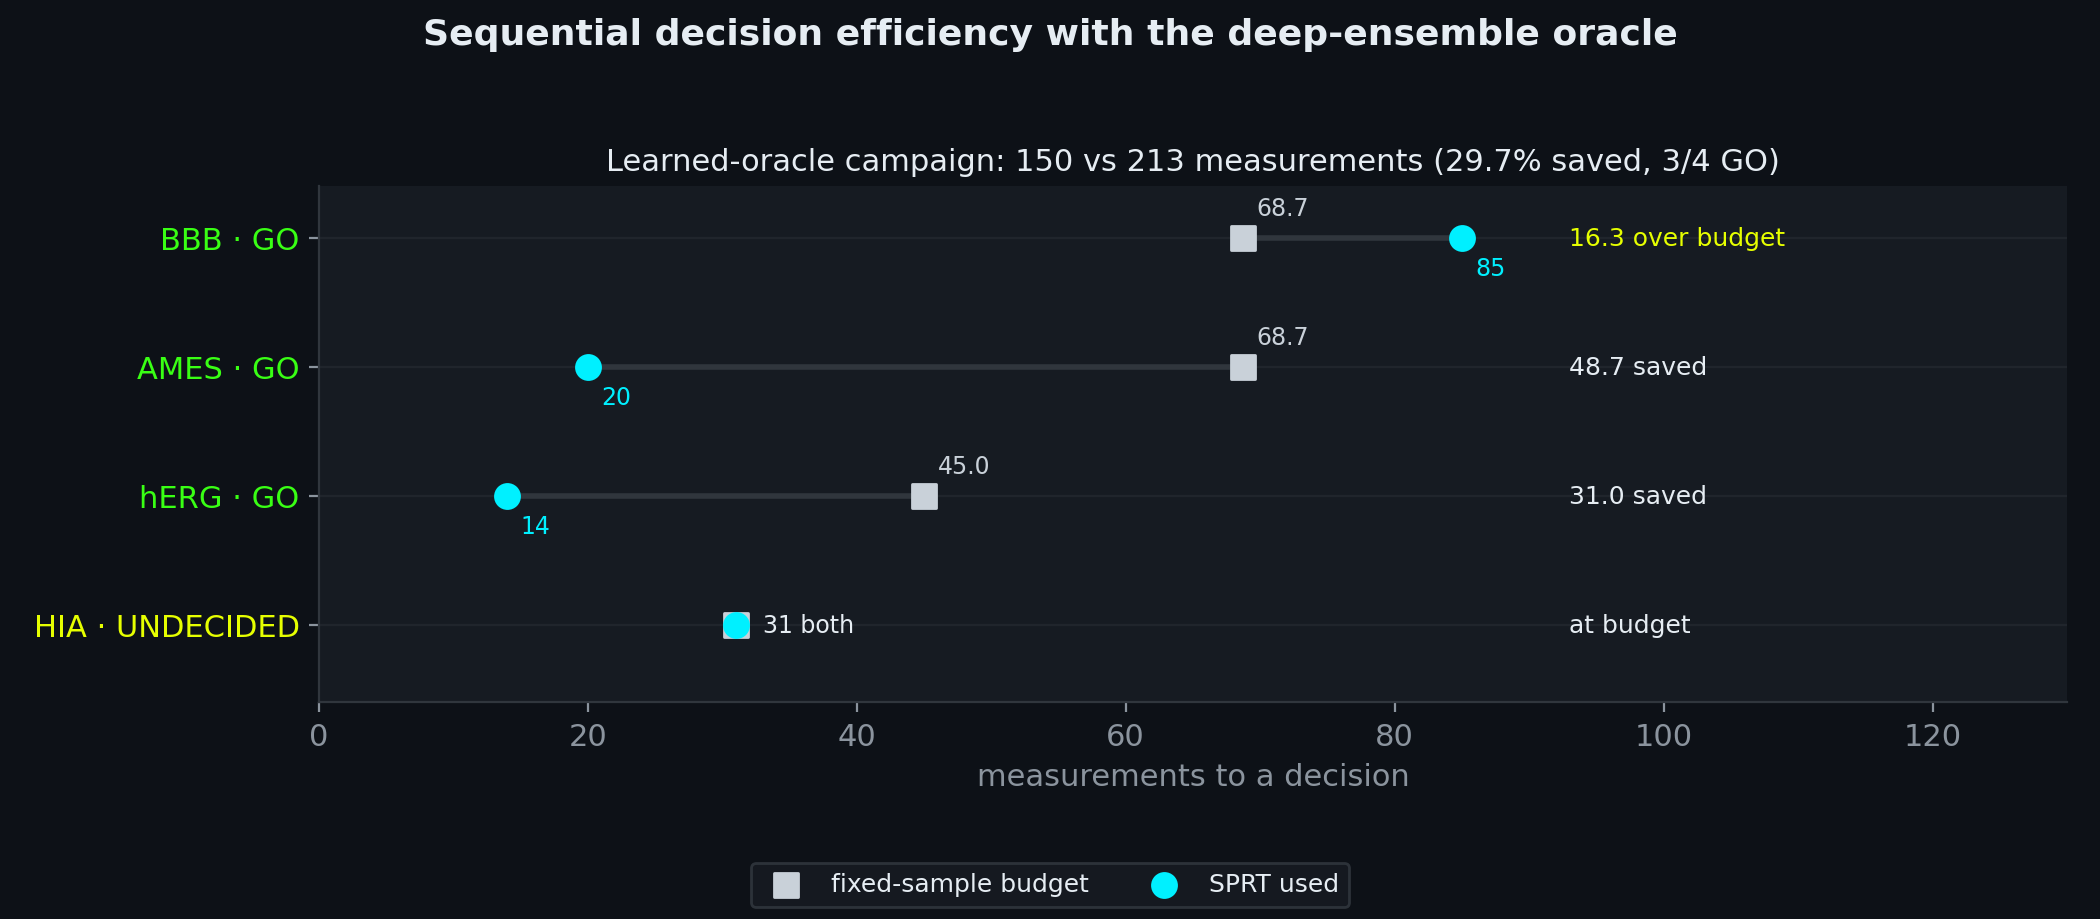
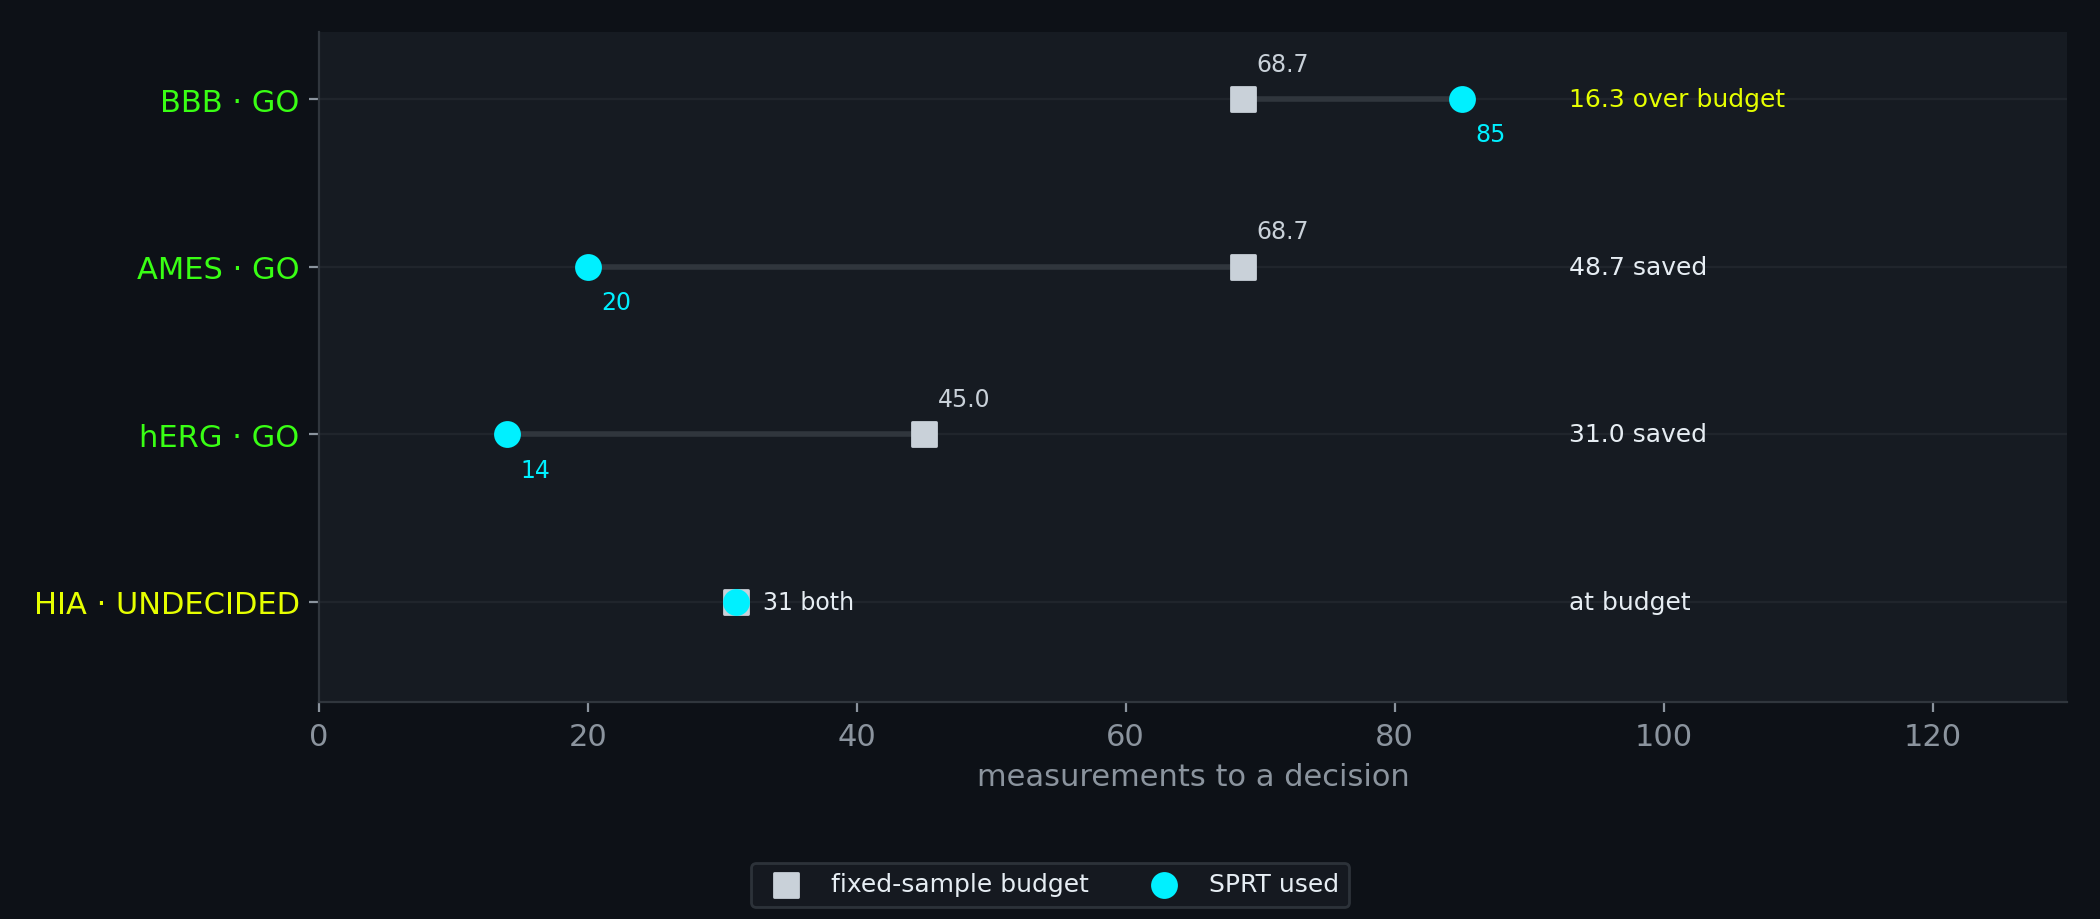
index: title-less Figure 6 with page-styled heading; recoherent molecular heading; align figure spacing

diff --git a/index.html b/index.html
@@ -1101,13 +1101,14 @@
         </div>
 
         <figure style="margin:18px 0 0;padding:18px;background:rgba(22,27,34,0.82);border:1px solid var(--border);border-radius:12px;">
-          <h4 style="margin:0 0 12px;font-size:16.5px;line-height:1.3;letter-spacing:-0.01em;color:var(--text-primary);">Look-alike molecules, very different behavior</h4>
+          <h4 style="margin:0 0 12px;font-size:16.5px;line-height:1.3;letter-spacing:-0.01em;color:var(--text-primary);">Small structural change, large property shift</h4>
           <img src="assets/molecules/cliff_pair_3d_comparison.png" loading="lazy" alt="Two drug-like molecules rendered in an identical 3D scaffold pose. They differ by a single highlighted functional group: a carboxylic acid on the left and a primary amide on the right." style="width:100%;height:auto;border-radius:8px;display:block;" />
           <figcaption style="margin-top:12px;font-size:12.5px;color:var(--text-secondary);line-height:1.6;">
             <strong style="color:var(--text-primary);">Why it matters.</strong> The two structures above are almost the same. Change a single group on the right side, an acid (COOH) into an amide (CONH<sub>2</sub>, highlighted), and the molecule flips from water-loving to fat-loving. Drug designers rely on computer models that assume similar molecules behave similarly, so a big jump from a tiny change is exactly where those predictions tend to be wrong. Preprint&nbsp;1 finds <strong style="color:var(--text-primary);">1,398</strong> of these surprise pairs automatically, pointing a scientist to the predictions worth distrusting and the molecules worth testing first. <span style="opacity:0.85;">(Here the lab-measured lipophilicity moves from <code style="font-family:var(--font-mono);color:var(--accent-green);">logD &minus;1.28</code> to <code style="font-family:var(--font-mono);color:var(--accent-purple);">+1.96</code>.)</span>
           </figcaption>
         </figure>
-        <figure style="margin:14px 0 0;padding:18px;background:rgba(22,27,34,0.82);border:1px solid var(--border);border-radius:12px;">
+        <figure style="margin:18px 0 0;padding:18px;background:rgba(22,27,34,0.82);border:1px solid var(--border);border-radius:12px;">
+          <h4 style="margin:0 0 12px;font-size:16.5px;line-height:1.3;letter-spacing:-0.01em;color:var(--text-primary);">Sequential decision efficiency with the deep-ensemble oracle</h4>
           <img src="assets/figures/campaign_efficiency.png" loading="lazy" alt="Dot plot comparing a fixed-sample testing budget against the SPRT-driven sequential campaign across four endpoints. The learned-oracle campaign reaches a GO decision on three of four endpoints with fewer measurements, using 150 versus a 213 fixed budget, while HIA remains undecided." style="width:100%;height:auto;border-radius:8px;display:block;" />
           <figcaption style="margin-top:12px;font-size:12.5px;color:var(--text-secondary);line-height:1.6;">
             <strong style="color:var(--text-primary);">Fewer experiments, same confident answer.</strong> Testing molecules in the lab is slow and costly, so you want to run as few tests as possible before committing to a yes or no. Here the system reached a confident call on <strong style="color:var(--text-primary);">3 of 4</strong> endpoints using <strong style="color:var(--text-primary);">150</strong> measurements instead of the usual <strong style="color:var(--text-primary);">213</strong>, about <strong style="color:var(--text-primary);">30% fewer</strong>. Just as important, when the evidence was not strong enough it said so (HIA, undecided) rather than guessing. Preprint&nbsp;2 pairs a graph neural network with a calibrated sense of its own uncertainty, and that honest confidence is what makes stopping early safe.
